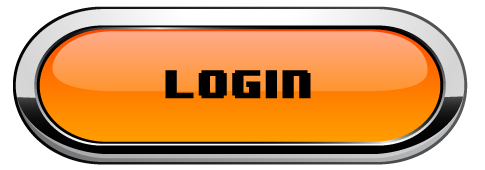
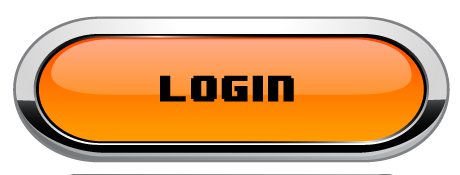
Comentarios

Changed region(s): [[0.0, 0.0294, 1.0, 1.0], [0.213, 0.4118, 0.8217, 0.5882], [0.1217, 0.4706, 0.1522, 0.5]]

diff --git a/core/src/com/bstq/Model/UsersDAO.java b/core/src/com/bstq/Model/UsersDAO.java
@@ -22,6 +22,13 @@ public class UsersDAO {
     public UsersDAO(){
 
     }
+
+    /**
+     * Method to connect with WebService for a login
+     * @param email email of user to login
+     * @param pass password
+     * @return User loged if login OK, User null if exception, and User if 0 if error connecting
+     */
     public User login(String email, String pass) {
         User u = null;
         String response ="";
@@ -42,6 +49,14 @@ public class UsersDAO {
         }
         return u;
     }
+
+    /**
+     * Method to register a User into WebService database
+     * @param userName user name of the user
+     * @param email email of the user
+     * @param password password of the user
+     * @return a string with response, "connectionError" in case of connection lost
+     */
     public String singUp(String userName, String email, String password){
         String response ="";
         try {
@@ -61,7 +76,12 @@ public class UsersDAO {
 
     }
 
-
+    /**
+     * Method to register user max score in Webservice database
+     * @param userId id of user
+     * @param maxScore new max score
+     * @throws UnknownHostException throws exception in case of connection lost
+     */
     public void registPoints(int userId, int maxScore) throws UnknownHostException{
         try {
             URL url = new URL(urlService + "/MaxScore"+"/"+userId+"/"+maxScore);
@@ -76,6 +96,12 @@ public class UsersDAO {
         }
 
     }
+
+    /**
+     * Get a User object from a response in Json format
+     * @param response response
+     * @return User object
+     */
     private User getUser(String response) {
         User u = null;
         Gson gson = new Gson();
@@ -86,6 +112,12 @@ public class UsersDAO {
         return u;
     }
 
+    /**
+     * Get the response string of the Webservice petition
+     * @param con Http connection
+     * @return String response
+     * @throws IOException
+     */
     private String getResponseBody(HttpURLConnection con) throws IOException {
         BufferedReader br;
 
@@ -105,6 +137,10 @@ public class UsersDAO {
 
     }
 
+    /**
+     * Method to load list of Ranking
+     * @return Ranking object with list of 10 users
+     */
     public Ranking loadRanking() {
         Ranking list = new Ranking();
         try {
@@ -122,6 +158,11 @@ public class UsersDAO {
         return list;
     }
 
+    /**
+     * Method to get a Ranking list of the response in Json format
+     * @param response response
+     * @return Ranking object
+     */
     private Ranking loadList(String response) {
         Ranking list = new Ranking();
         Gson gson = new Gson();

diff --git a/core/src/com/bstq/view/LoginMenu.java b/core/src/com/bstq/view/LoginMenu.java
@@ -3,6 +3,8 @@ package com.bstq.view;
 import com.badlogic.gdx.Gdx;
 import com.badlogic.gdx.graphics.GL20;
 import com.badlogic.gdx.graphics.Texture;
+import com.badlogic.gdx.graphics.g2d.Sprite;
+import com.badlogic.gdx.graphics.g2d.SpriteBatch;
 import com.badlogic.gdx.graphics.g2d.TextureAtlas;
 import com.badlogic.gdx.scenes.scene2d.Actor;
 import com.badlogic.gdx.scenes.scene2d.Stage;
@@ -40,8 +42,10 @@ public class LoginMenu extends Menu  {
     Label userLabel, passLabel;
     Skin sk;
     User u;
+    Sprite title;
+    SpriteBatch sb;
     public LoginMenu(Main main) {
-
+        sb = new SpriteBatch();
         service = new UsersDAO();
         Gdx.input.setCatchBackKey(true);
         this.main=main;
@@ -58,6 +62,7 @@ public class LoginMenu extends Menu  {
      * Method to fill the Stage with all actors
      */
     private void fillStage() {
+
         stage.addActor(userLabel);
         stage.addActor(passLabel);
         stage.addActor(user);
@@ -70,6 +75,9 @@ public class LoginMenu extends Menu  {
      * Method to prepare Labels and TextViews of the screen
      */
     private void prepareForm() {
+        //Texture titleTexture = new Texture(Gdx.files.internal("title.png"));
+        //title = new Sprite(titleTexture);
+        //title.setPosition(200,1300);
         userLabel = new Label("Email: ",sk);
         userLabel.setSize(500,100);
         userLabel.setPosition(150,1150);
@@ -158,7 +166,7 @@ public class LoginMenu extends Menu  {
      */
     private void prepareButtons() {
         ButtonHandler bh = new ButtonHandler();
-        login=bh.getButton(new Texture(Gdx.files.internal("button-loguin.png")),65,650);
+        login=bh.getButton(new Texture(Gdx.files.internal("button-login.png")),65,650);
         register=bh.getButton(new Texture(Gdx.files.internal("button-register.png")),565,650);
     }
     @Override
@@ -175,6 +183,9 @@ public class LoginMenu extends Menu  {
         Gdx.gl.glClear(GL20.GL_COLOR_BUFFER_BIT);
         stage.act();
         stage.draw();
+       // sb.begin();
+       // title.draw(sb);
+       // sb.end();
     }
 
     @Override
@@ -185,6 +196,8 @@ public class LoginMenu extends Menu  {
     @Override
     public void dispose() {
         stage.dispose();
+        //sb.dispose();
+
 
     }
 

diff --git a/core/src/com/bstq/view/MainMenu.java b/core/src/com/bstq/view/MainMenu.java
@@ -87,18 +87,18 @@ public class MainMenu extends Menu{
      */
     private void prepareButtons() {
         ButtonHandler bh = new ButtonHandler();
-        arcade =bh.getButton(new Texture(Gdx.files.internal("button-startgame.png")),300,1150);
-        survivor =bh.getButton(new Texture(Gdx.files.internal("button-ranking.png")),300,900);
+        arcade =bh.getButton(new Texture(Gdx.files.internal("button-startgame.png")),297,1200);
+        survivor =bh.getButton(new Texture(Gdx.files.internal("button-ranking.png")),297,900);
        // multiplayer = bh.getButton(new Texture(Gdx.files.internal("boton-multiplayer.png")),300,900);
        // settings =bh.getButton(new Texture(Gdx.files.internal("boton-settings.png")),300,700);
-        exit =bh.getButton(new Texture(Gdx.files.internal("button-exit.png")),300,650);
+        exit =bh.getButton(new Texture(Gdx.files.internal("button-exit.png")),297,600);
 
     }
 
     @Override
     public void hide() {
         Gdx.input.setInputProcessor(null);
-         stage.dispose();
+
 
     }
 

diff --git a/core/src/com/bstq/view/RegisterMenu.java b/core/src/com/bstq/view/RegisterMenu.java
@@ -65,7 +65,7 @@ public class RegisterMenu extends Menu {
      */
     private void initButton() {
         ButtonHandler bh = new ButtonHandler();
-        singin=bh.getButton(new Texture(Gdx.files.internal("button-register.png")),350,450);
+        singin=bh.getButton(new Texture(Gdx.files.internal("button-register.png")),325,450);
         singin.addCaptureListener(new ChangeListener() {
             @Override
             public void changed(ChangeEvent event, Actor actor) {
